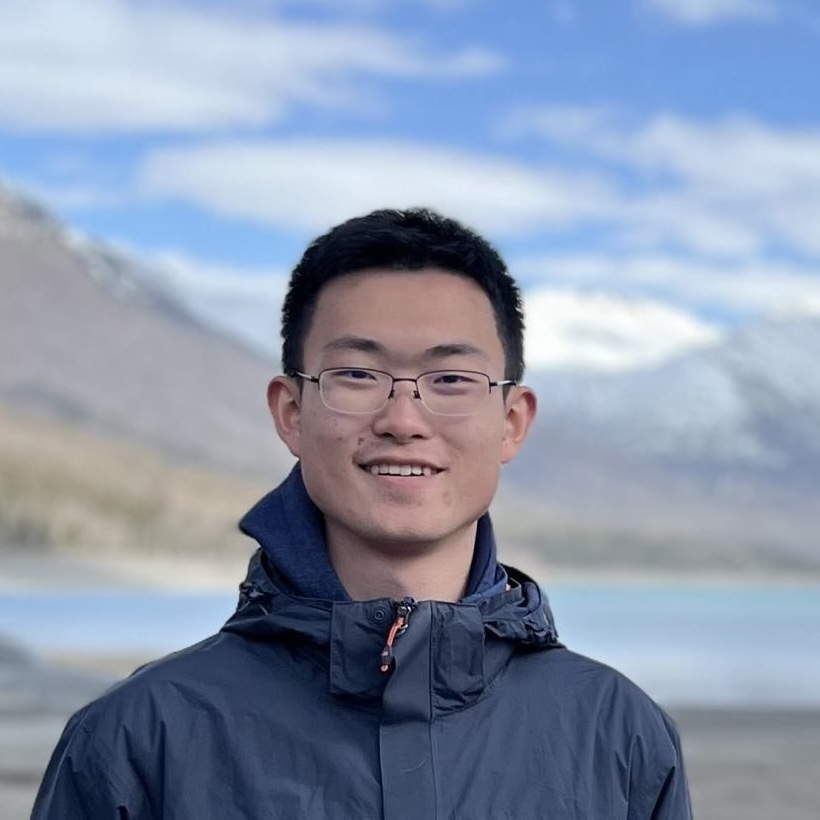
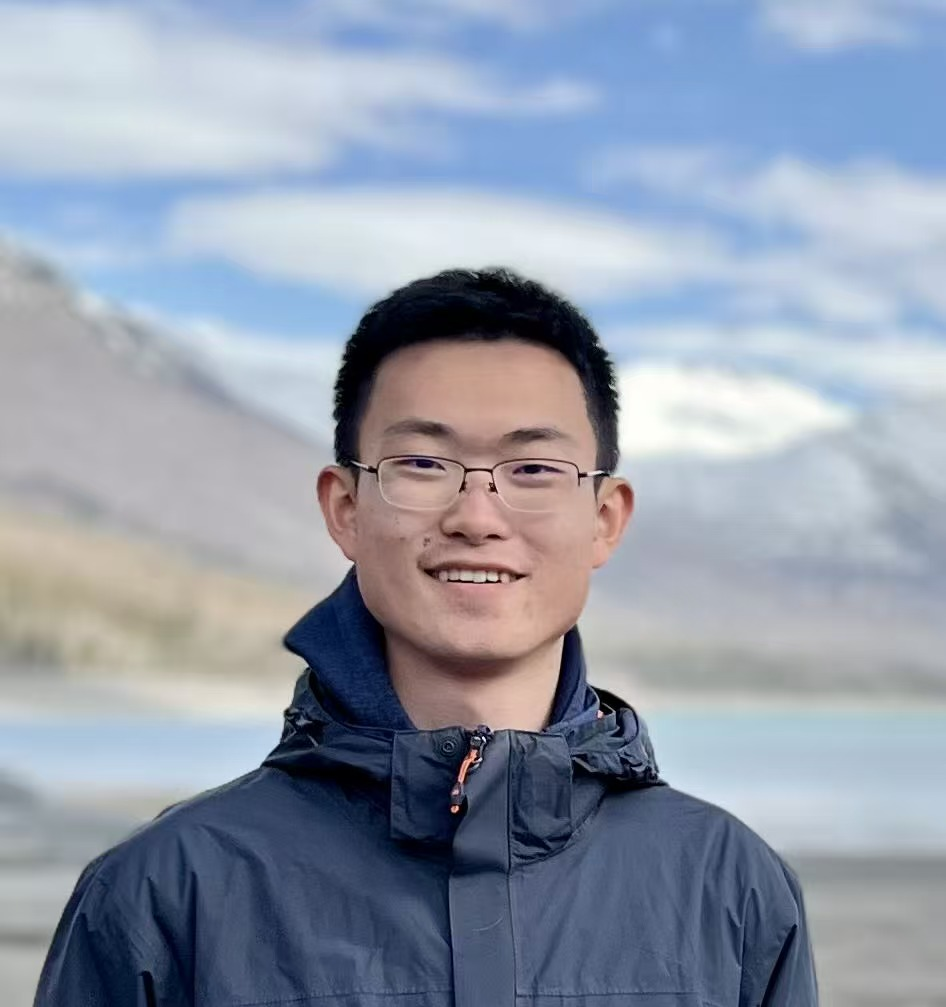
Hero: three-basin drifting landscape, slower particles that fade once settled; new portrait
- Landscape: a flat basin, a sharp basin and a slowly turning curved valley, plus a saddle bump;
  wells wander and breathe so the surface keeps drifting
- Particles: at most two, released on high ground, 4x slower heavy-ball descent with smooth
  (Ornstein-Uhlenbeck) noise; fade out once their loss stops dropping over ~3 s
- Larger, full-colour, higher-resolution portrait

diff --git a/src/scripts/landscape.ts b/src/scripts/landscape.ts
@@ -1,20 +1,43 @@
 // Hero figure: level sets of a slowly drifting 2-D "loss landscape", with a handful of
-// heavy-ball gradient-descent particles rolling around on it. The pointer digs a well
+// heavy-ball gradient-descent particles rolling down it. Each particle is released on high
+// ground, descends with smooth (temporally correlated) noise, and fades out once it has
+// settled into a basin; a fresh one is released a moment later. The pointer digs a well
 // into the landscape; clicking drops a new particle.
 
-type Well = { bx: number; by: number; rx: number; ry: number; w: number; ph: number; a: number; s: number };
+// A (possibly curved, rotated) Gaussian basin or bump. In its own frame (u along the axis,
+// v across it) the profile is  a · exp(-½ (u²/sx² + (v - bend·u²)²/sy²)).
+type Well = {
+  bx: number; by: number; rx: number; ry: number; w: number; ph: number; // wandering centre
+  a: number; bw: number; // depth, and how fast it breathes
+  sx: number; sy: number; th: number; spin: number; bend: number; // shape
+};
+// Per-frame snapshot of a well, so the field sampler does no trig.
+type Live = { x: number; y: number; a: number; c: number; s: number; isx2: number; isy2: number; bend: number };
 type Particle = {
   x: number; y: number; vx: number; vy: number;
   lr: number; beta: number;
-  trail: number[]; still: number; age: number; alpha: number; dying: boolean;
+  nx: number; ny: number; // correlated noise state
+  losses: number[]; // loss sampled every LOSS_EVERY frames, most recent last
+  trail: number[]; age: number; alpha: number; dying: boolean;
 };
 
-const GRID = 14; // css px between samples
+const GRID = 11; // css px between samples
 const LEVEL0 = -3;
 const LEVEL_STEP = 0.1;
-const TRAIL = 70;
-const MAX_PARTICLES = 9;
-const NOISE = 1.6;
+const TRAIL = 140; // trail points, one every TRAIL_EVERY frames
+const TRAIL_EVERY = 2;
+const POPULATION = 2; // particles kept alive when nobody is clicking
+const MAX_PARTICLES = 2; // including ones dropped by clicking
+const BOWL = 0.18; // weak confining quadratic
+const MAX_STEP = 0.00175; // world units per frame (height = 1)
+const NOISE = 1.2; // noise scale, in gradient units
+const NOISE_CORR = 0.995; // per-frame correlation of the noise (Ornstein–Uhlenbeck)
+// Settling: a particle whose loss has dropped by less than SETTLE_DROP over the last
+// LOSS_WINDOW samples (~3 s) has found its basin (or is circling it) and fades out.
+const LOSS_EVERY = 30;
+const LOSS_WINDOW = 6;
+const SETTLE_DROP = 0.03;
+const MAX_AGE = 60 * 90;
 const MOUSE_A = 0.7; // depth of the basin under the pointer
 const MOUSE_S = 0.07;
 const MOUSE_IDLE_MS = 1800; // the basin fills back in once the pointer rests
@@ -43,18 +66,58 @@ export function mountLandscape(canvas: HTMLCanvasElement, dots: HTMLCanvasElemen
   }
 
   function makeWells() {
-    // A few basins and ridges spread across the canvas, each wandering on a small ellipse.
-    const spec = [-1.25, -1.0, -0.85, -0.7, 0.75, 0.6, 0.5];
-    wells = spec.map((a, i) => ({
-      bx: aspect * ((i + 0.5) / spec.length + rand(-0.06, 0.06)),
-      by: rand(0.18, 0.82),
-      rx: rand(0.05, 0.16) * aspect * 0.5,
-      ry: rand(0.04, 0.12),
-      w: rand(0.06, 0.14) * (Math.random() < 0.5 ? -1 : 1),
+    // Three minima with different characters, laid out along the long side of the canvas:
+    // a wide flat basin, a curved narrow valley that slowly turns, and a small sharp (but
+    // deeper) basin — plus a low bump that makes a saddle. A weak bowl keeps
+    // particles on screen.
+    const wide = aspect >= 1;
+    const sc = Math.min(1, aspect / 0.9); // shrink features on portrait screens
+    const at = (along: number, across: number): [number, number] =>
+      wide ? [along * aspect, across] : [across * aspect, along];
+    const well = (pos: [number, number], w: Partial<Well>): Well => ({
+      bx: pos[0], by: pos[1],
+      rx: rand(0.04, 0.08) * sc, ry: rand(0.04, 0.08) * sc,
+      w: rand(0.05, 0.09) * (Math.random() < 0.5 ? -1 : 1),
       ph: rand(0, Math.PI * 2),
-      a,
-      s: a < 0 ? rand(0.13, 0.22) : rand(0.08, 0.14),
-    }));
+      bw: rand(0.03, 0.06),
+      a: -1, sx: 0.1, sy: 0.1, th: 0, spin: 0, bend: 0,
+      ...w,
+    });
+    const j = () => rand(-0.05, 0.05);
+    const flip = Math.random() < 0.5; // mirror the arrangement for variety
+    const f = (v: number) => (flip ? 1 - v : v);
+    wells = [
+      // flat
+      well(at(f(0.22 + j()), 0.38 + j()), { a: -0.85, sx: 0.2 * sc, sy: 0.17 * sc, th: rand(0, Math.PI), spin: 0.02 }),
+      // curved valley
+      well(at(f(0.55 + j()), 0.6 + j()), {
+        a: -0.9, sx: 0.27 * sc, sy: 0.055 * sc, bend: 3 / sc,
+        th: rand(0, Math.PI * 2), spin: rand(0.03, 0.05) * (Math.random() < 0.5 ? -1 : 1),
+      }),
+      // sharp
+      well(at(f(0.83 + j()), 0.35 + j()), { a: -1.15, sx: 0.06 * sc, sy: 0.06 * sc }),
+      // a low bump between the flat basin and the valley, making a saddle
+      well(at(f(0.38 + j()), 0.78 + j()), { a: 0.4, sx: 0.1 * sc, sy: 0.1 * sc }),
+    ];
+    updateWells();
+  }
+
+  let live: Live[] = [];
+  function updateWells() {
+    const snap = (w: Well): Live => {
+      const th = w.th + w.spin * t;
+      return {
+        x: w.bx + w.rx * Math.cos(w.w * t + w.ph),
+        y: w.by + w.ry * Math.sin(w.w * 1.3 * t + w.ph),
+        // depth slowly breathes, so basins deepen and fill back in over time
+        a: w.a * (1 + 0.15 * Math.sin(w.bw * t + 2 * w.ph)),
+        c: Math.cos(th), s: Math.sin(th),
+        isx2: 1 / (w.sx * w.sx), isy2: 1 / (w.sy * w.sy), bend: w.bend,
+      };
+    };
+    live = wells.map(snap);
+    if (mouse.k > 0.001)
+      live.push({ x: mouse.x, y: mouse.y, a: -MOUSE_A * mouse.k, c: 1, s: 0, isx2: 1 / MOUSE_S ** 2, isy2: 1 / MOUSE_S ** 2, bend: 0 });
   }
 
   function resize() {
@@ -79,80 +142,95 @@ export function mountLandscape(canvas: HTMLCanvasElement, dots: HTMLCanvasElemen
     if (reduce) frame();
   }
 
-  // Centres of the wells at time t (world units: height = 1, width = aspect).
-  const cx = (w: Well) => w.bx + w.rx * Math.cos(w.w * t + w.ph);
-  const cy = (w: Well) => w.by + w.ry * Math.sin(w.w * 1.3 * t + w.ph);
-
   function potential(x: number, y: number) {
-    let f = 0.35 * ((x - aspect / 2) ** 2 / (aspect * aspect * 0.25) + (y - 0.5) ** 2 * 1.2);
-    for (const w of wells) {
-      const dx = x - cx(w), dy = y - cy(w);
-      f += w.a * Math.exp(-(dx * dx + dy * dy) / (2 * w.s * w.s));
-    }
-    if (mouse.k > 0.001) {
-      const dx = x - mouse.x, dy = y - mouse.y, s = MOUSE_S;
-      f -= MOUSE_A * mouse.k * Math.exp(-(dx * dx + dy * dy) / (2 * s * s));
+    let f = BOWL * ((x - aspect / 2) ** 2 / (aspect * aspect * 0.25) + (y - 0.5) ** 2 * 1.2);
+    for (const w of live) {
+      const dx = x - w.x, dy = y - w.y;
+      const u = dx * w.c + dy * w.s, q = -dx * w.s + dy * w.c - w.bend * u * u;
+      f += w.a * Math.exp(-0.5 * (u * u * w.isx2 + q * q * w.isy2));
     }
     return f;
   }
 
   function gradient(x: number, y: number): [number, number] {
-    let gx = (0.7 * (x - aspect / 2)) / (aspect * aspect * 0.25);
-    let gy = 0.84 * (y - 0.5);
-    for (const w of wells) {
-      const dx = x - cx(w), dy = y - cy(w), s2 = w.s * w.s;
-      const e = w.a * Math.exp(-(dx * dx + dy * dy) / (2 * s2));
-      gx -= (e * dx) / s2;
-      gy -= (e * dy) / s2;
-    }
-    if (mouse.k > 0.001) {
-      const dx = x - mouse.x, dy = y - mouse.y, s2 = MOUSE_S * MOUSE_S;
-      const e = -MOUSE_A * mouse.k * Math.exp(-(dx * dx + dy * dy) / (2 * s2));
-      gx -= (e * dx) / s2;
-      gy -= (e * dy) / s2;
+    let gx = (2 * BOWL * (x - aspect / 2)) / (aspect * aspect * 0.25);
+    let gy = 2 * BOWL * 1.2 * (y - 0.5);
+    for (const w of live) {
+      const dx = x - w.x, dy = y - w.y;
+      const u = dx * w.c + dy * w.s, q = -dx * w.s + dy * w.c - w.bend * u * u;
+      const e = w.a * Math.exp(-0.5 * (u * u * w.isx2 + q * q * w.isy2));
+      const du = e * (-u * w.isx2 + q * w.isy2 * 2 * w.bend * u); // ∂/∂u
+      const dv = e * (-q * w.isy2); // ∂/∂v
+      gx += du * w.c - dv * w.s;
+      gy += du * w.s + dv * w.c;
     }
     return [gx, gy];
   }
 
-  function spawn(x?: number, y?: number, sharp = false): Particle {
+  // Release on high ground: best of a few random candidates, so it has somewhere to roll.
+  function spawn(x?: number, y?: number): Particle {
+    if (x === undefined || y === undefined) {
+      let best = -Infinity;
+      for (let k = 0; k < 6; k++) {
+        const cx = rand(0.04, 0.96) * aspect, cy = rand(0.06, 0.94);
+        const f = potential(cx, cy);
+        if (f > best) (best = f), (x = cx), (y = cy);
+      }
+    }
     return {
-      x: x ?? rand(0.05, 0.95) * aspect,
-      y: y ?? rand(0.05, 0.95),
-      vx: 0, vy: 0,
-      // Most particles use momentum; the "sharp" one runs plain GD with a large step and
-      // rattles across narrow basins instead of settling (a nod to edge-of-stability).
-      lr: sharp ? 0.045 : rand(0.0001, 0.00018),
-      beta: sharp ? 0 : rand(0.94, 0.97),
-      trail: [], still: 0, age: 0, alpha: 0, dying: false,
+      x: x!, y: y!, vx: 0, vy: 0,
+      lr: rand(0.0000125, 0.0000225),
+      beta: rand(0.95, 0.97),
+      nx: gauss(), ny: gauss(),
+      losses: [],
+      trail: [], age: 0, alpha: 0, dying: false,
     };
   }
 
+  const aliveCount = () => particles.reduce((n, p) => n + (p.dying ? 0 : 1), 0);
+  let pending: number[] = []; // countdown (frames) until the next automatic release
+
   function stepParticles() {
+    const rho = NOISE_CORR, kick = Math.sqrt(1 - rho * rho);
     for (let i = particles.length - 1; i >= 0; i--) {
       const p = particles[i];
       const [gx, gy] = gradient(p.x, p.y);
-      // a little minibatch noise keeps them exploring instead of freezing in the first basin
-      const noise = p.beta === 0 ? 0 : NOISE;
-      p.vx = p.beta * p.vx - p.lr * (gx + noise * gauss());
-      p.vy = p.beta * p.vy - p.lr * (gy + noise * gauss());
+      p.nx = rho * p.nx + kick * gauss();
+      p.ny = rho * p.ny + kick * gauss();
+      p.vx = p.beta * p.vx - p.lr * (gx + NOISE * p.nx);
+      p.vy = p.beta * p.vy - p.lr * (gy + NOISE * p.ny);
       const sp = Math.hypot(p.vx, p.vy);
-      if (sp > 0.02) (p.vx *= 0.02 / sp), (p.vy *= 0.02 / sp);
+      if (sp > MAX_STEP) (p.vx *= MAX_STEP / sp), (p.vy *= MAX_STEP / sp);
       p.x += p.vx;
       p.y += p.vy;
       p.age++;
-      p.trail.push(p.x, p.y);
-      if (p.trail.length > TRAIL * 2) p.trail.splice(0, 2);
-
-      p.still = sp < 0.0006 ? p.still + 1 : 0;
-      const out = p.x < -0.1 || p.x > aspect + 0.1 || p.y < -0.1 || p.y > 1.1;
-      if (p.still > 240 || p.age > 60 * 24 || out) p.dying = true;
-      p.alpha = p.dying ? p.alpha - 0.02 : Math.min(1, p.alpha + 0.03);
-      if (p.dying && p.alpha <= 0) {
-        const wasSharp = p.beta === 0;
-        particles.splice(i, 1);
-        if (particles.length < 6) particles.push(spawn(undefined, undefined, wasSharp));
+      if (p.age % TRAIL_EVERY === 0) {
+        p.trail.push(p.x, p.y);
+        if (p.trail.length > TRAIL * 2) p.trail.splice(0, 2);
       }
+
+      // Settling: compare the loss now with ~3 s ago. Rolling downhill keeps it falling;
+      // sitting in (or orbiting, or being carried along with) a basin does not.
+      if (p.age % LOSS_EVERY === 0) {
+        p.losses.push(potential(p.x, p.y));
+        if (p.losses.length > LOSS_WINDOW + 1) p.losses.shift();
+        const n = p.losses.length;
+        if (n > LOSS_WINDOW && p.losses[0] - p.losses[n - 1] < SETTLE_DROP) p.dying = true;
+      }
+
+      const out = p.x < -0.1 || p.x > aspect + 0.1 || p.y < -0.1 || p.y > 1.1;
+      if (p.age > MAX_AGE || out) p.dying = true;
+      p.alpha = p.dying ? p.alpha - 0.005 : Math.min(1, p.alpha + 0.01);
+      if (p.dying && p.alpha <= 0) particles.splice(i, 1);
     }
+    // Keep a small population, releasing replacements one at a time with a pause.
+    pending = pending.map((n) => n - 1);
+    while (pending.length && pending[0] <= 0) {
+      pending.shift();
+      if (aliveCount() < MAX_PARTICLES) particles.push(spawn());
+    }
+    const alive = aliveCount();
+    for (let k = alive + pending.length; k < POPULATION; k++) pending.push(Math.round(rand(90, 300)) + pending.length * 120);
   }
 
   function sampleField() {
@@ -220,7 +298,7 @@ export function mountLandscape(canvas: HTMLCanvasElement, dots: HTMLCanvasElemen
     for (const p of particles) {
       const n = p.trail.length / 2;
       dctx.strokeStyle = accent;
-      dctx.lineWidth = 1.2;
+      dctx.lineWidth = 1.1;
       for (let s = 1; s < n; s++) {
         dctx.globalAlpha = p.alpha * (s / n) * 0.85;
         dctx.beginPath();
@@ -249,6 +327,7 @@ export function mountLandscape(canvas: HTMLCanvasElement, dots: HTMLCanvasElemen
   function frame() {
     if (performance.now() - mouse.moved > MOUSE_IDLE_MS) mouse.target = 0;
     mouse.k += (mouse.target - mouse.k) * 0.05;
+    updateWells();
     ctx.clearRect(0, 0, W, H);
     sampleField();
     drawContours();
@@ -277,7 +356,7 @@ export function mountLandscape(canvas: HTMLCanvasElement, dots: HTMLCanvasElemen
 
   if (reduce) return;
 
-  for (let i = 0; i < 6; i++) particles.push(spawn(undefined, undefined, i === 0));
+  for (let i = 0; i < POPULATION; i++) particles.push(spawn());
 
   const toWorld = (e: PointerEvent) => {
     const r = canvas.getBoundingClientRect();
@@ -293,7 +372,9 @@ export function mountLandscape(canvas: HTMLCanvasElement, dots: HTMLCanvasElemen
   host.addEventListener('pointerdown', (e) => {
     if ((e.target as Element).closest('a, button')) return;
     const [x, y] = toWorld(e);
-    if (particles.length >= MAX_PARTICLES) particles[0].dying = true;
+    // at most MAX_PARTICLES in play: the oldest one bows out for the new one
+    const live = particles.filter((p) => !p.dying);
+    if (live.length >= MAX_PARTICLES) live[0].dying = true;
     particles.push(spawn(x, y));
   });
 
